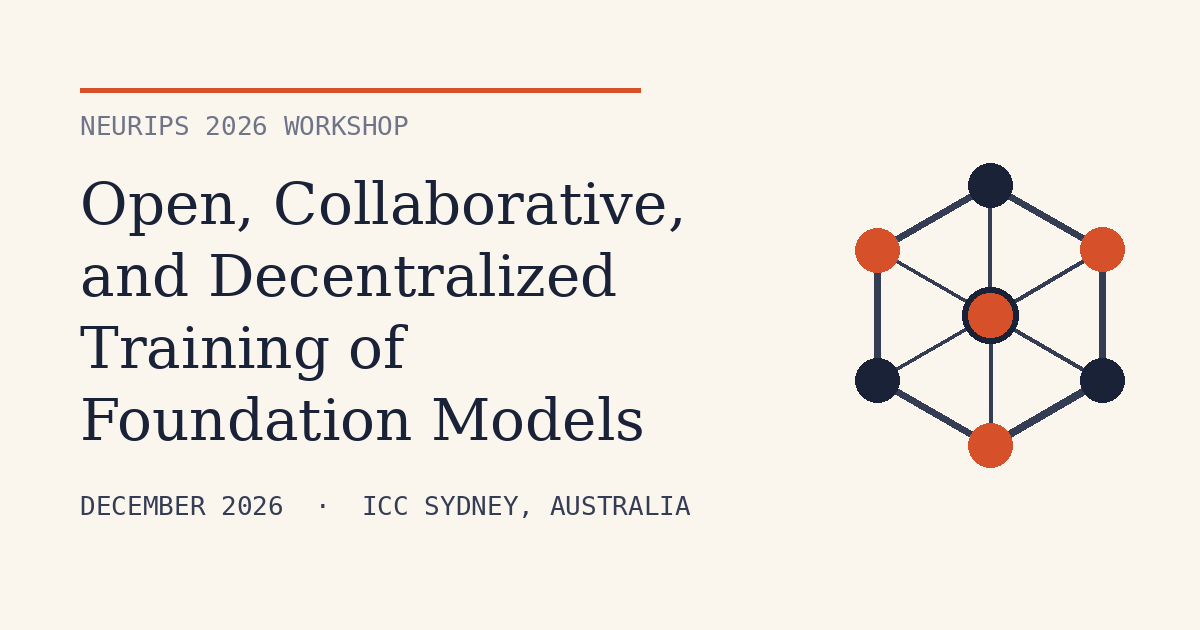
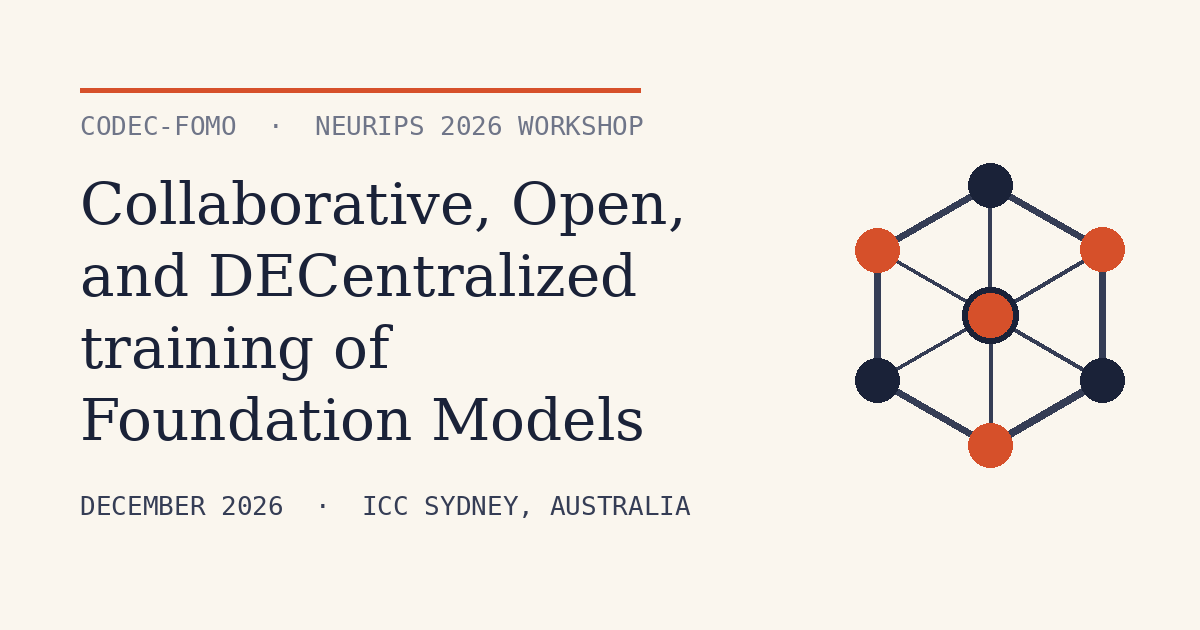
Rename workshop to CODEC-FoMo: Collaborative, Open, and DECentralized training of Foundation Models

diff --git a/index.html b/index.html
@@ -3,9 +3,9 @@
 <head>
     <meta charset="UTF-8">
     <meta name="viewport" content="width=device-width, initial-scale=1.0">
-    <title>Open, Collaborative, and Decentralized Training of Foundation Models &mdash; NeurIPS 2026 Workshop</title>
-    <meta name="description" content="NeurIPS 2026 Workshop on open, collaborative, and decentralized training of foundation models: communication-efficient and asynchronous optimization, heterogeneous and fault-tolerant systems, and security. December 2026, Sydney, Australia.">
-    <meta property="og:title" content="Open, Collaborative, and Decentralized Training of Foundation Models — NeurIPS 2026 Workshop">
+    <title>CODEC-FoMo: Collaborative, Open, and DECentralized training of Foundation Models &mdash; NeurIPS 2026 Workshop</title>
+    <meta name="description" content="CODEC-FoMo — NeurIPS 2026 Workshop on collaborative, open, and decentralized training of foundation models: communication-efficient and asynchronous optimization, heterogeneous and fault-tolerant systems, and security. December 2026, Sydney, Australia.">
+    <meta property="og:title" content="CODEC-FoMo: Collaborative, Open, and DECentralized training of Foundation Models — NeurIPS 2026 Workshop">
     <meta property="og:description" content="Scaling foundation model training across distributed, heterogeneous compute — from inter-datacenter training to internet-scale collaboration.">
     <meta property="og:type" content="website">
     <meta property="og:url" content="https://open-collaborative-decentralized-fomo.github.io/">
@@ -772,7 +772,7 @@
 
 <div class="topbar">
     <div class="wrap">
-        <a class="mark" href="#about">ODT · NeurIPS 2026</a>
+        <a class="mark" href="#about">CODEC-FoMo · NeurIPS 2026</a>
         <div class="links">
             <a href="#about">About</a>
             <a href="#dates">Dates</a>
@@ -795,7 +795,7 @@
             <span class="dot"></span>
             <span>ICC Sydney, Australia</span>
         </div>
-        <h1 class="hero-title">Open, Collaborative, and Decentralized Training of Foundation Models</h1>
+        <h1 class="hero-title">Collaborative, Open, and DECentralized training of Foundation Models</h1>
         <p class="hero-subtitle">
             Scaling foundation model training across distributed, heterogeneous compute — from inter-datacenter training to internet-scale collaboration.
         </p>
@@ -1001,7 +1001,7 @@
 
         <div class="cfp-subsection">
             <h3>Topics we accept</h3>
-            <p>We encourage contributions addressing the core challenges of open, collaborative, and decentralized training, including but not limited to:</p>
+            <p>We encourage contributions addressing the core challenges of collaborative, open, and decentralized training, including but not limited to:</p>
             <ul>
                 <li><strong>Open model development and community infrastructure:</strong> systems, architectures, algorithms, and governance mechanisms that enable large-scale collaborative open model development on geographically distributed compute.</li>
                 <li><strong>Communication-efficient and asynchronous training:</strong> compression, scheduling, and optimization techniques that enable large-scale training across all parallelism axes over low-bandwidth and high-latency interconnects, while improving device utilization through asynchronous execution.</li>
@@ -1038,7 +1038,7 @@
         <div class="cfp-cta">
             <p class="cta-text">Submissions are due August 29, 2026. The OpenReview portal opens soon.</p>
             <div class="cta-actions">
-                <a class="button" href="mailto:[email redacted]?subject=ODT%20NeurIPS%202026%20submission%20question">Email the organizers</a>
+                <a class="button" href="mailto:[email redacted]?subject=CODEC-FoMo%20NeurIPS%202026%20submission%20question">Email the organizers</a>
                 <a class="button button-alt" href="https://forms.gle/7nAEEuWHZGBBpXfF8">Volunteer to review ↗</a>
             </div>
         </div>
@@ -1129,7 +1129,7 @@
             <span>Sponsors</span>
             <span class="rule"></span>
         </div>
-        <p class="sponsor-foot">Interested in sponsoring the workshop? <a href="mailto:[email redacted]?subject=ODT%20NeurIPS%202026%20sponsorship">Get in touch</a>.</p>
+        <p class="sponsor-foot">Interested in sponsoring the workshop? <a href="mailto:[email redacted]?subject=CODEC-FoMo%20NeurIPS%202026%20sponsorship">Get in touch</a>.</p>
     </div>
 </section>
 
@@ -1152,7 +1152,7 @@
 
 <footer>
     <div class="wrap">
-        <span class="mark">ODT · NeurIPS 2026</span>
+        <span class="mark">CODEC-FoMo · NeurIPS 2026</span>
         <span>December 11 or 12, 2026 · ICC Sydney, Australia</span>
         <a href="mailto:[email redacted]">Contact</a>
     </div>